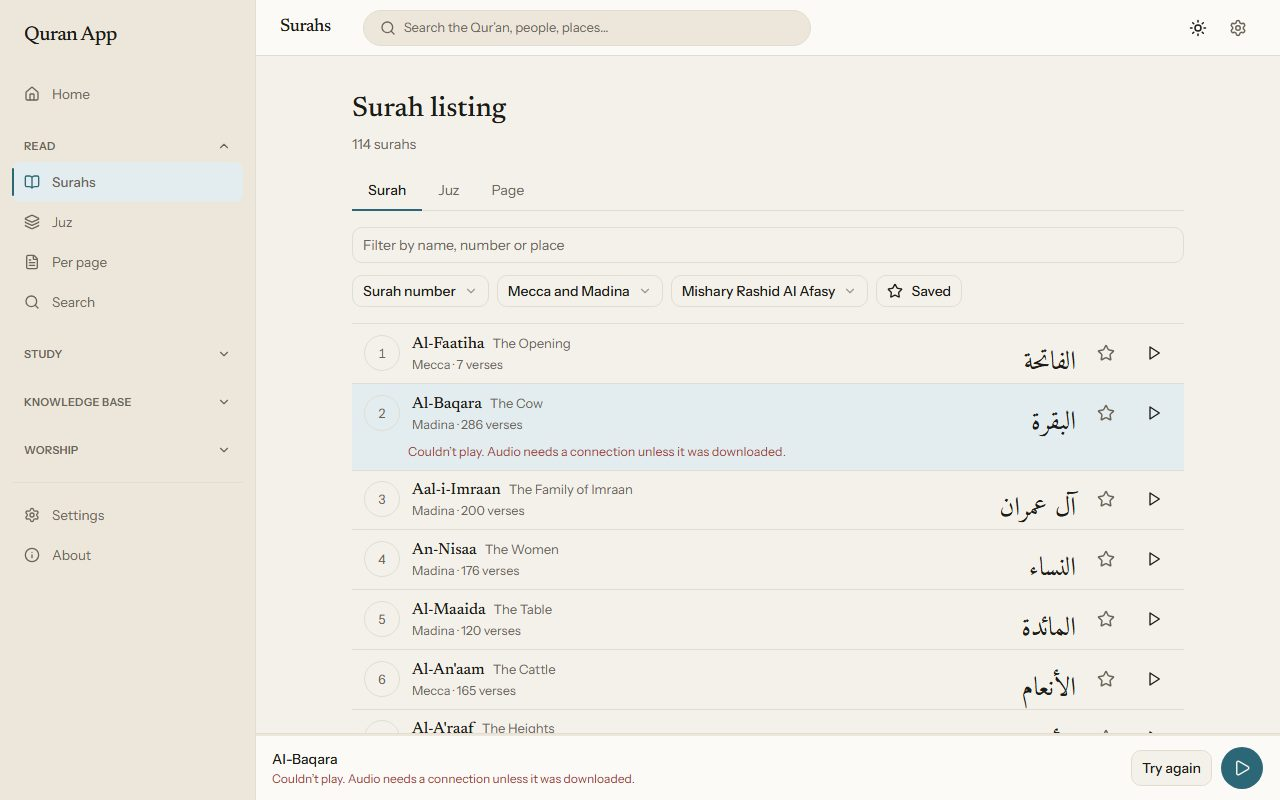
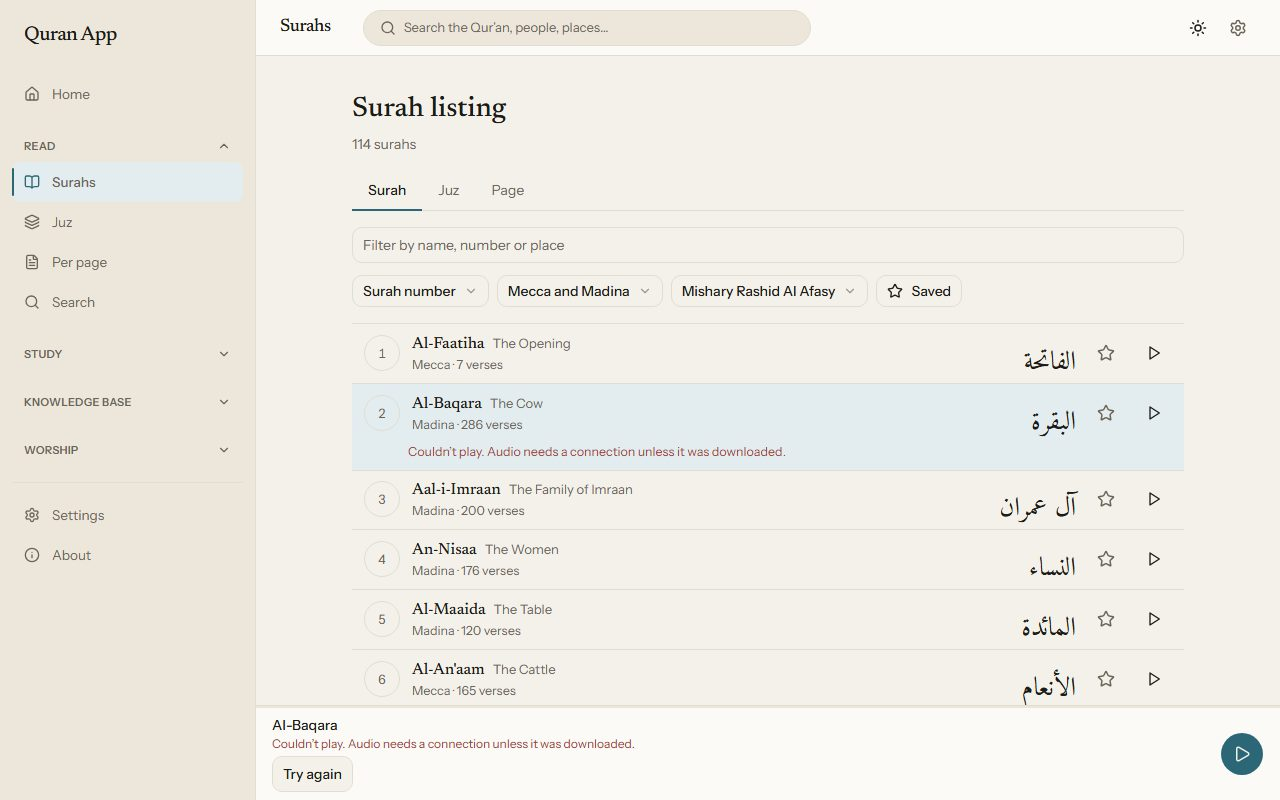
revamp(player): the mini player's error wraps onto two lines with Try again under it, with a test; Phase 4C plan

Changed region(s): [[0.1875, 0.9062, 1.0, 1.0]]

diff --git a/app/components/layout/MiniPlayer.vue b/app/components/layout/MiniPlayer.vue
@@ -19,12 +19,15 @@ const status = computed(() => {
 <template>
   <div v-if="player.nowPlaying" class="fixed inset-x-0 bottom-0 z-30 border-t bg-surface md:left-64" role="region" aria-label="Audio player" data-testid="mini-player">
     <div class="h-0.5 bg-muted" aria-hidden="true"><i class="block h-full bg-brand" :style="{ width: `${pct}%` }" data-testid="mini-progress" /></div>
-    <div class="flex h-16 items-center gap-2 px-4">
-      <button type="button" class="flex min-h-11 min-w-0 flex-1 flex-col justify-center text-left" aria-label="Open the player" data-testid="mini-open" @click="player.openSheet()">
-        <span class="truncate text-[14px] font-medium" data-testid="mini-title">{{ player.nowPlaying.title }}</span>
-        <span class="truncate text-[12px]" :class="player.error ? 'text-destructive' : 'text-ink-2'" data-testid="mini-status">{{ status }}</span>
-      </button>
-      <Button v-if="s.status === 'error'" variant="outline" class="min-h-11 shrink-0 md:min-h-9" data-testid="mini-retry" @click="player.retry()">Try again</Button>
+    <div class="flex min-h-16 items-center gap-2 px-4 py-1">
+      <div class="flex min-w-0 flex-1 flex-col items-start">
+        <button type="button" class="flex min-h-11 w-full min-w-0 flex-col justify-center text-left" aria-label="Open the player" data-testid="mini-open" @click="player.openSheet()">
+          <span class="truncate text-[14px] font-medium" data-testid="mini-title">{{ player.nowPlaying.title }}</span>
+          <span class="line-clamp-2 break-words text-[12px] leading-[1.35]" :class="player.error ? 'text-destructive' : 'text-ink-2'" data-testid="mini-status">{{ status }}</span>
+        </button>
+        <!-- under the text, so the whole message fits on two lines and Try again is never pushed off the row -->
+        <Button v-if="s.status === 'error'" variant="outline" class="mb-1 min-h-11 shrink-0 md:min-h-9" data-testid="mini-retry" @click="player.retry()">Try again</Button>
+      </div>
       <Button variant="default" size="icon" class="size-11 shrink-0 rounded-full" :aria-label="busy ? 'Pause' : 'Play'" data-testid="mini-toggle" @click="player.toggle()">
         <Icon :name="busy ? 'lucide:pause' : 'lucide:play'" size="18" />
       </Button>

diff --git a/e2e/player.spec.ts b/e2e/player.spec.ts
@@ -480,5 +480,31 @@ test.describe("dark mode and a phone", () => {
       expect((await page.getByTestId("mini-open").boundingBox())!.height).toBeGreaterThanOrEqual(43.5);
       expect((await page.getByTestId("mini-toggle").boundingBox())!.height).toBeGreaterThanOrEqual(43.5);
     });
+
+    test("the mini player's error wraps onto two lines (nothing cut off) and Try again stays on screen and easy to hit", async ({ page }) => {
+      await openListing(page);
+      await hook(page, "fail", true);
+      await page.getByTestId("surah-row-2").getByTestId("row-play").click();
+      const status = page.getByTestId("mini-status");
+      await expect(status).toHaveText("Couldn’t play. Audio needs a connection unless it was downloaded.");
+      const fits = await status.evaluate((el) => {
+        const lh = parseFloat(getComputedStyle(el).lineHeight);
+        return { whole: el.scrollHeight <= el.clientHeight + 1, lines: Math.round(el.getBoundingClientRect().height / lh) };
+      });
+      expect(fits.whole).toBe(true); // all of the text is there, not clipped
+      expect(fits.lines).toBeGreaterThanOrEqual(2); // it wrapped (it does not fit on one line at 375px)
+      expect(fits.lines).toBeLessThanOrEqual(2);
+      const retry = (await page.getByTestId("mini-retry").boundingBox())!;
+      expect(retry.height).toBeGreaterThanOrEqual(43.5);
+      expect(retry.x).toBeGreaterThanOrEqual(0);
+      expect(retry.x + retry.width).toBeLessThanOrEqual(375);
+      expect(retry.y + retry.height).toBeLessThanOrEqual(800);
+      const toggle = (await page.getByTestId("mini-toggle").boundingBox())!;
+      expect(toggle.x + toggle.width).toBeLessThanOrEqual(375);
+      expect(await noScroll(page)).toBe(true);
+      await hook(page, "fail", false);
+      await page.getByTestId("mini-retry").click();
+      await expect(page.getByTestId("mini-toggle")).toHaveAccessibleName("Pause");
+    });
   });
 });

diff --git a/docs/phases/phase-04c-plan.md b/docs/phases/phase-04c-plan.md
@@ -1,0 +1,105 @@
+# Phase 4C plan: per-ayah audio and queues
+
+Status: **plan only, waiting for approval.** Written 2026-10-22 after reading the Phase 0 to 4B docs, `docs/audio-url-check.md`, the player (`lib/audioEngine.ts`, `stores/player.ts`, `lib/mediaSession.ts`), the reader's rows (`components/reader/AyahList.vue`), the Per-page frame, the Stories reader and chapter data, the Asma sheet, the legacy `names.json`, and live checks of every host below.
+
+## 0. Baseline, your 4B decisions, and one correction
+
+**Baseline** (`npm run verify`, Node 22, commit `8149884`, 10:20 to 10:36): build and lint clean, **617 of 617 unit tests**, dev smoke passed, **460 of 461 browser tests**. The one failure is the reader's performance budget at 4x CPU ("opening a tafsir" took 876 ms against 800). I ran a retry pass instead of patching the number: the same test alone on the same machine passed 2 of 6 right after verify, and later, once the machine was quieter, **5 of 6 on the pre-4B build and 5 of 6 on the 4B build** (the single failures were 4189 and 4047 ms against a 4000 ms first-render budget). So it is **not a 4B regression**: it is a timing test that sits at its limit on this machine, and it failed in verify while I was running a network sweep alongside it (my doing). It is not patched; see decision 11.
+
+**Your 4B decisions, done:** the mini player's error now wraps onto two lines at 375px with **Try again** under it (so it cannot be pushed off the row), with a test for it; `docs/DEVICE_CHECKS.md` is written and committed (every real-device and manual review item, grouped by phase, with an empty "What I saw" column).
+
+**One correction to the Asma note.** You said there is no recording for a name. There is: the legacy `names.json` holds a recording URL for each of the 99 names (`quranaudio.myislam.org`), and the legacy page played them through the shared player. I checked all 99: **96 answer `200 audio/mpeg`** (26 to 48 KB), and **3 return 404**: #53 Al-Qawiyy, #93 An-Noor, #97 Al-Warith. The host sends no CORS header (fine for an audio element, only relevant to caching). So per-ayah audio does not apply to names, but a **single-file clip** does. Decision 1 below.
+
+## 1. The per-ayah endpoint (measured, not assumed)
+
+- **URL shape:** `https://quranapi.pages.dev/api/<surah>/<ayah>.json` returns an `audio` object with five entries, `1` to `5` (the same five reciters, with the same names, as the full-surah list), each `{ reciter, url, originalUrl }`. The `url` is `https://the-quran-project.github.io/Quran-Audio/Data/<reciterId>/<surah>_<ayah>.mp3` and `originalUrl` is everyayah.com.
+- **Completeness:** I fetched **all 6,236 ayahs**: every one answered, **every one has all five reciters, and all 31,180 URLs have exactly that shape.** Nothing is missing.
+- **Files (HEAD-checked sample of 1,500 URLs: the first and last ayah of every surah for all five reciters, 2:255, 2:282, and 80 random ayahs):** all `200`, all `audio/mp3` (a real audio type, unlike the 210 large surah files), CORS `*`, `Accept-Ranges: bytes`. Sizes **14 KB to 3.47 MB, median 145 KB**; the largest is 2:282 by reciter 5. The other ~29,700 files were not individually checked.
+- **The URL is taken from the endpoint's answer each time, never built from the pattern** (so a change at the host cannot silently break a rule in our code). The answers are small and the service worker already caches that host (`quran-api-cache`).
+
+## 2. How whole-surah and per-ayah audio share one player
+
+One audio element and one store, as now. The engine's `Track` becomes four kinds:
+
+| Kind | What it is | Resolves to | Saved place | Previous / Next |
+| --- | --- | --- | --- | --- |
+| `surah` | A full surah file (4B, unchanged) | the surah file for the reciter | `quran:audio-resume:v1` (legacy shape, unchanged) | previous / next surah |
+| `ayah` | One ayah (the reader's play button) | the endpoint's `url` for that ayah and reciter | none (a few seconds long) | previous / next ayah of the same surah |
+| `queue` | An ordered list of ayahs: a page or a story chapter | one ayah at a time, in order | `quran:audio-queue:v1` (new, additive; section 5) | previous / next ayah in the queue |
+| `clip` | One recording that is not an ayah (an Asma-ul-Husna name) | its own URL | none | none |
+
+Starting any of them replaces what is playing (one thing at a time). The mini player shows the kind's own title: "Al-Baqara" (surah), "Al-Baqara 2:255" (ayah), "Page 49" or the chapter's title (queue), the name (clip); the sheet's second line says "Recited by <reciter>" and, for a queue, "Al-Baqara 2:6 · ayah 3 of 13". **Whole-surah audio has no per-ayah timing data**, so the reader highlights nothing while a full surah plays; it highlights only when an ayah or a queue is playing.
+
+"Play the next surah automatically" (the Settings switch) applies only to `surah`. **Repeat** repeats what was started: the ayah, the whole queue, the surah, the clip; its label says which ("Repeat this ayah", "Repeat this page", "Repeat this recitation").
+
+## 3. The reader
+
+- **A play control per ayah** in the tools row (after Tafsir and the spacer, before Save): a real button, 44px on a phone (36px on desktop, the row's existing size), `aria-label` "Play ayah 5" / "Pause ayah 5", `aria-pressed` while that ayah is the one playing.
+- **The playing-ayah highlight:** the row gets `aria-current="true"` and a soft accent background with a 3px brand-colour left edge (not gold: gold stays for verse markers), distinct from the pale flash that `#ayah-N` uses. It follows the queue ayah by ayah.
+- **Following the audio:** off by default. A switch in the sheet, "Keep the playing ayah in view", stored in a new additive key `quran:player-prefs:v1` (`{ followAyah }`). When on, and **only when Reduce motion is off**, the row scrolls into view (instant, no smooth scrolling, no focus change) only if it is not already fully visible. With it off nothing moves.
+- **Repeat one ayah:** the sheet's Repeat switch while an ayah plays.
+- The same highlight (`aria-current`, accent background) is added to the ayah being played in the **Per-page frame** (each ayah's text gets its own inline span so the highlight can wrap) and in the **Stories reader's** chapter text.
+
+## 3a. The two queues
+
+- **Play page** (Per page): the page's ayahs in order from `pageSegments(page)` (the same table, so a page that crosses a surah plays on into the next surah); title "Page 49"; the button becomes a real **Play page / Pause page** and reflects whether *this page's* queue is the one playing. The Bismillah at the start of a surah is **not** played as a separate file: the data has per-ayah files only, and whether a reciter's first-ayah file includes the Bismillah depends on the recording (I could not tell from the data), so it is a device check, not something the page claims.
+- **Listen to this chapter** (Stories): the chapter's passages in order from `chaptersOf`, flattened to ayahs (the reader still shows only the first 8 until "Show all"; the queue plays the whole chapter, and the sheet says "ayah 12 of 17"). Title: the chapter's title.
+- **How a queue advances:** when an ayah ends, the next one starts at once. **No artificial pause** (recommended: the recordings carry their own silence; the engine waits only if the next file is not ready, showing "Buffering…"); the constant exists (`QUEUE_GAP_MS = 0`) so a device check can change it.
+- **Preloading:** when an ayah starts, the next ayah's URL is resolved and its file is fetched once so the switch is instant (one ayah ahead only). Skipped when the browser's Save-Data flag is on. The fetched file goes into the existing audio cache by the existing rule (below).
+- **One failed ayah:** the engine retries it once (it asks the endpoint for the URL again), then **stops on it** with "Couldn’t play ayah 2:6." and two buttons, **Try again** and **Skip this ayah**. It never skips silently (leaving part of a recitation out without saying so would be wrong). The text is also read out by the status line. (Decision 2.)
+- **The end:** the queue stops after its last ayah (no auto-continue into the next page or chapter; "Play the next surah automatically" is for surahs). The saved place is reset to the first ayah, as a finished surah is.
+
+## 4. Asma-ul-Husna Play (see the correction in section 0)
+
+Recommended: **enable it as a `clip`** for the 96 names that have a recording, through the same player: Play / Pause in the name sheet, a mini player titled with the name, "Recited" is not claimed (the host does not say who recites; the sub-line reads "Asma-ul-Husna"). The three missing names (#53, #93, #97) keep the disabled button with its own reason, **"No recording for this name"**, so nothing says "arrives soon" for something that will not arrive. The recording is third-party hosted like the surah audio; no embed or script is loaded, only the audio file. Alternatives: keep all 99 disabled with a different reason, or remove the control (decision 1).
+
+## 5. Media Session, saved places, no autoplay
+
+- **Media Session metadata:** ayah: title "Al-Baqara 2:255", artist the reciter, album "Quran App"; queue: title the current ayah's reference, artist the reciter, album the queue's title ("Page 49" or the chapter's title); clip: the name's transliteration, artist "Asma-ul-Husna". Previous and next track follow the kinds' rules above and are removed where they do not apply.
+- **Saved places.** `quran:audio-resume:v1` stays exactly as it is (surah only, legacy shape). A queue writes a **new additive key `quran:audio-queue:v1`** = `{ v: 1, kind: "page" | "story", ref: { page } | { storyId, chapter }, index, reciter, position, savedAt }` (the queue is rebuilt from the data on resume, so no list is stored), saved like the surah place: every 5 seconds while playing, on pause, on `pagehide`, reset to the first ayah at the end. After a reload the mini player shows the last thing that was started, **paused** (starting a surah removes the queue key; starting a queue leaves the surah record alone, and the queue key wins on restore). A single ayah and a clip save nothing. The legacy app ignores the new key.
+- **No autoplay anywhere:** every kind starts only from a press (a row button, Play page, Listen, Play in the name sheet, the mini player, the resume line, the lock screen's Play). A restored queue shows paused. A queue moves from one ayah to the next only because the user started it.
+
+## 6. Offline: what is proven and what is not
+
+I tested the service worker's real audio rule (`CacheFirst`, `quran-audio-cache`, statuses 0 and 200, 300 entries) in the production build with **real files from the real host, in desktop Chromium only**:
+
+| Test | Result |
+| --- | --- |
+| `fetch()` of a whole per-ayah file (2:255, 832 KB) through the service worker | Stored in `quran-audio-cache` |
+| An audio element playing a per-ayah file that was never fetched | It played, seeking worked, and the file **was in the cache afterwards** |
+| The same files with the network switched off | **Both played offline.** Seeking worked for the file the element had loaded; it did **not** work for the file stored by `fetch()` (the cache answers a range request with the whole body) |
+| A file never touched, offline | Fails (`MEDIA_ERR_SRC_NOT_SUPPORTED`) |
+
+So small per-ayah files that were played or preloaded once **can** play again offline in desktop Chromium, with seeking unreliable for preloaded ones. **This is not proven on iPhone Safari, Chrome on Android or Firefox, so the app makes no offline-play claim** (the existing "Audio needs a connection unless it was downloaded" meaning stays), and I will add the rows for it to `docs/DEVICE_CHECKS.md` when 4C is built, for you to run. Nothing about the 74 MB surah files changes. Preloading will cause queue files to be stored by the existing rule (cap 300 entries, one year); I would rather not add a new cache or a new store. Real "download this page for offline" is Downloads (Phase 11).
+
+## 7. Keyboard and screen reader, targets
+
+Native buttons only: the ayah play button is in the row's existing tab order (Tafsir, Play, Save, Pin, Share); Play page and Listen are real buttons; no single-key shortcuts. The status line (`role="status"`, polite) says "Playing Al-Baqara 2:6, ayah 3 of 13" when the ayah changes and the failure text above. The playing row carries `aria-current`. Every new control is 44px on a phone. Nothing animates.
+
+## 8. Tests
+
+- **Unit** (fake element and fake endpoint): the four kinds through the engine, queue advance, end, previous/next, repeat per kind, the retry-then-stop failure and Skip, preload (once ahead, skipped on Save-Data), the resume key (written on the three triggers, reset at the end, restore precedence, the surah key untouched), the Media Session metadata per kind, the per-ayah URL taken from the answer, and that a legacy-shaped record is unchanged.
+- **Browser** (the existing stand-in element plus a mocked per-ayah endpoint with synthetic URLs): the ayah button and its label, the highlight and `aria-current`, follow on/off and never with Reduce motion, repeat one ayah, Play page across a surah boundary, Listen to this chapter, a failed ayah (Try again / Skip), the Asma clip and the three disabled names, the resume after reload (paused), no autoplay, 375px, dark mode, 44px, and that **no page still says "Playing single ayahs arrives soon"** (the test from 4B, inverted).
+- **Real playback, gaps between files and offline on phones are device checks** (DEVICE_CHECKS.md).
+
+## 9. Screenshots
+
+1280 and 375, light and dark: the reader row with the play button, a playing ayah (highlight), the Per-page frame with a playing ayah, the Stories chapter with the queue playing, the mini player and sheet in queue mode ("ayah 3 of 13"), the failed-ayah state with Try again and Skip, the Asma sheet with Play and with a missing name.
+
+## 10. Order of work and splitting
+
+Five commits in this order, so the phase can be split at any boundary if a verify run is long or fails: (1) the engine's kinds and the queue, with unit tests; (2) the reader's per-ayah play, highlight and follow; (3) the Asma clip; (4) Play page; (5) Stories Listen. Hifz will reuse the queue later.
+
+## 11. Decisions I need
+
+1. **Asma Play:** enable as a clip for the 96 names that have a recording and show "No recording for this name" for #53, #93 and #97 (recommended); or keep all 99 disabled with a different reason; or remove the control.
+2. **A failed ayah in a queue:** retry once, then stop with Try again and Skip (recommended), or skip automatically with a notice.
+3. **Pause between ayahs:** none (recommended; the constant allows 300 ms later), or 300 ms now.
+4. **Preload one ayah ahead by fetching its file** (stored by the existing audio cache rule), skipped on Save-Data (recommended), or no preload.
+5. **Follow the audio:** a sheet switch, off by default, never with Reduce motion, stored in the new `quran:player-prefs:v1` (recommended), or stored inside `quran:audio-prefs:v1` (legacy writes would drop it).
+6. **The queue's saved place** in the new additive key `quran:audio-queue:v1` (recommended), or no queue resume.
+7. **Repeat** repeats what was started, with a label that says so (recommended).
+8. **The queue stops at its end** (no auto-continue to the next page or chapter) (recommended).
+9. **No separate Bismillah file** at a surah's first ayah on a page queue, with the device check above deciding whether anything is missing (recommended).
+10. **Wording of ours** (flagged in CONTENT_TO_VERIFY.md when built): "Play page" / "Pause page", "Couldn’t play ayah 2:6.", "Skip this ayah", "Keep the playing ayah in view", "No recording for this name", "ayah 3 of 13".
+11. **The reader's 4x-CPU performance budget** (first render under 4000 ms, tafsir under 800 ms): it fails about 1 run in 6 on this machine with or without 4B. Options: leave it and rerun when it flakes; make both budgets relative to the control run (as the longest-task one already is); or raise them a little. I changed nothing.

diff --git a/docs/PROGRESS.md b/docs/PROGRESS.md
@@ -10,7 +10,7 @@ Update this file at the end of every phase.
 | 3 | Surah listing, Juz, Page | **Done, awaiting review** (2026-10-16) | [phase-03-surah-listing](phases/phase-03-surah-listing.md), [plan](phases/phase-03-surah-listing-plan.md) | [surah-listing](pages/surah-listing.md) |
 | 4A | Surah reader | **Done, awaiting review** (2026-10-16) | [phase-04a-surah-reader](phases/phase-04a-surah-reader.md), [plan](phases/phase-04a-surah-reader-plan.md) | [surah-reader](pages/surah-reader.md) |
 | 4B | Full player: the whole-surah player (seeking, speed, repeat, auto-next, resume, reciter switching, Media Session, the player sheet) | **Done, awaiting review** (2026-10-21; real-device audio check still yours) | [phase-04b-player](phases/phase-04b-player.md), [plan](phases/phase-04b-plan.md) | [player](pages/player.md) |
-| 4C | Per-ayah audio: the reader's per-ayah play, the Asma-ul-Husna name clips, Play page, Stories Listen (needs an ayah queue) | Not started (needs a plan review) | | |
+| 4C | Per-ayah audio and queues: the reader's per-ayah play, the Asma-ul-Husna name clips, Play page, Stories Listen | Plan written 2026-10-22, waiting for approval | [plan](phases/phase-04c-plan.md) | |
 | 5 | Prayer and Qibla | **Done, awaiting review** (2026-10-16) | [phase-05-prayer-qibla](phases/phase-05-prayer-qibla.md), [plan](phases/phase-05-prayer-qibla-plan.md) | [prayer-qibla](pages/prayer-qibla.md) |
 | 6 | Library | **Done, awaiting review** (2026-10-16) | [phase-06-library](phases/phase-06-library.md), [plan](phases/phase-06-library-plan.md) | [library](pages/library.md) |
 | 7A | Prophets & People: directory, Timeline, person page | **Done, awaiting review** (2026-10-20; 277 browser tests; the three relationship entries are a pending decision, see the phase doc) | [phase-07a-people](phases/phase-07a-people.md), [plan](phases/phase-07a-people-plan.md) | [people](pages/people.md), [person](pages/person.md) |

diff --git a/docs/phases/phase-04b-player.md b/docs/phases/phase-04b-player.md
@@ -58,3 +58,9 @@ Per-ayah audio, name clips, Play page and Stories Listen (4C); Save audio (Phase
 - **The phone audio check** (it decides whether the 210 large files need anything): Surah listing, play surah 1 (control), 3 and 18, two reciters each, iPhone Safari and Chrome on Android (and Firefox); note plays or fails, the exact message, and whether seeking works in the sheet. Also the lock screen's controls, and the sheet at 375px dark.
 - Review the wording of ours and the new resume behaviour (CONTENT_TO_VERIFY.md).
 - Then 4C (per-ayah audio and the queue) needs a plan review.
+
+## After review (2026-10-22)
+
+- **The mini player's error now wraps onto two lines at 375px** (the text is never clipped) and **Try again sits under it**, so it cannot be pushed off the row; a browser test measures the lines, the clipping and the button's position and size. Screenshot regenerated (`player-compare/state-mini-error-*`).
+- `npm run verify` on Node 22 after the change: 617 unit tests, 462 e2e tests, **passed, exit 0**. (The first baseline run that morning had one failure in the reader's 4x-CPU performance budget; a retry pass on the pre-4B and 4B builds gave 5 of 6 each, so it is a timing test at its limit on this machine, not a 4B regression: see `phase-04c-plan.md`, section 0.)
+- `docs/DEVICE_CHECKS.md` was added (every real-device and manual review item so far).
